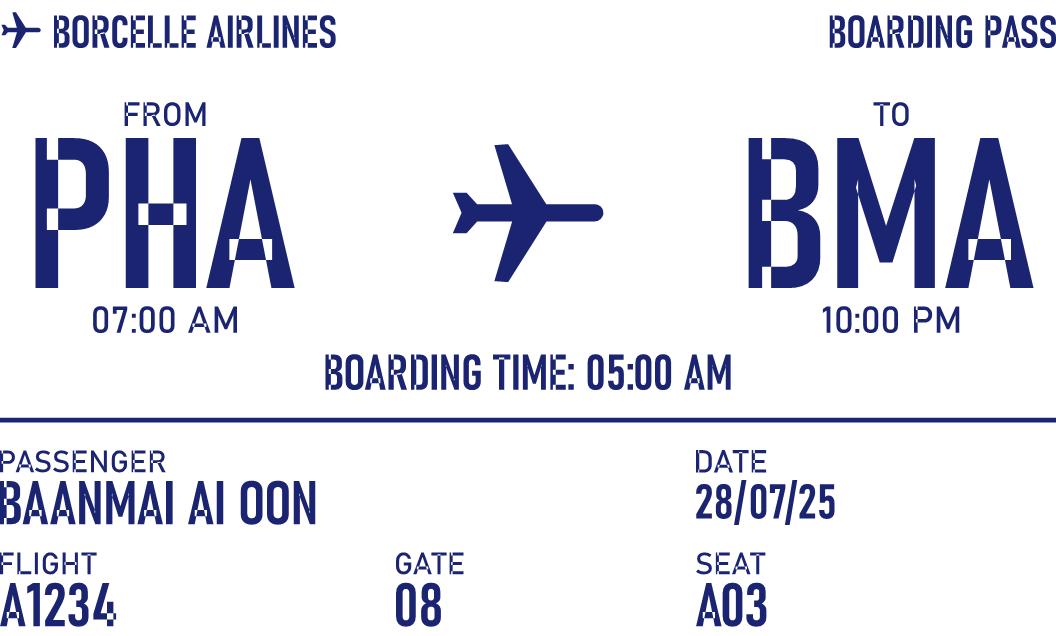
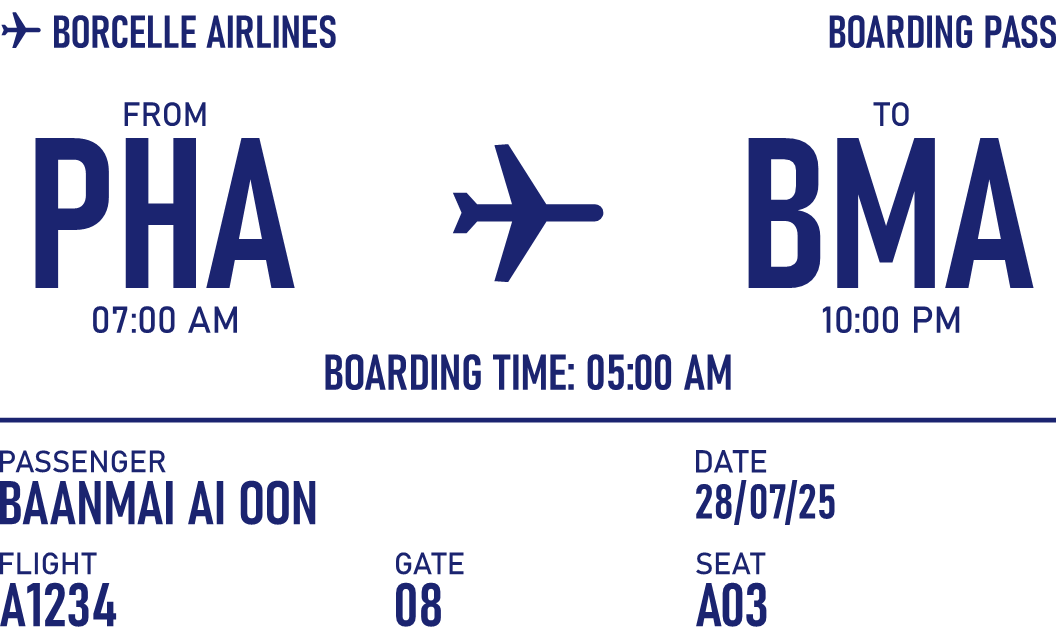
fix(themes): boarding pass lettering rendered with checkered glyphs (variable font overlap)

diff --git a/scripts/theme-packs/boarding-render.cs b/scripts/theme-packs/boarding-render.cs
@@ -38,7 +38,7 @@ public static class BoardingTheme
         for (int i = 0; i < 60; i++)
         {
             if (path != null) path.Dispose();
-            path = new GraphicsPath();
+            path = new GraphicsPath(FillMode.Winding);   // variable fonts overlap contours: fill non-zero, not even-odd
             path.AddString(text, fam, (int)style, size, PointF.Empty, StringFormat.GenericTypographic);
             b = path.GetBounds();
             if (b.Width <= box.Width && b.Height <= box.Height) break;
